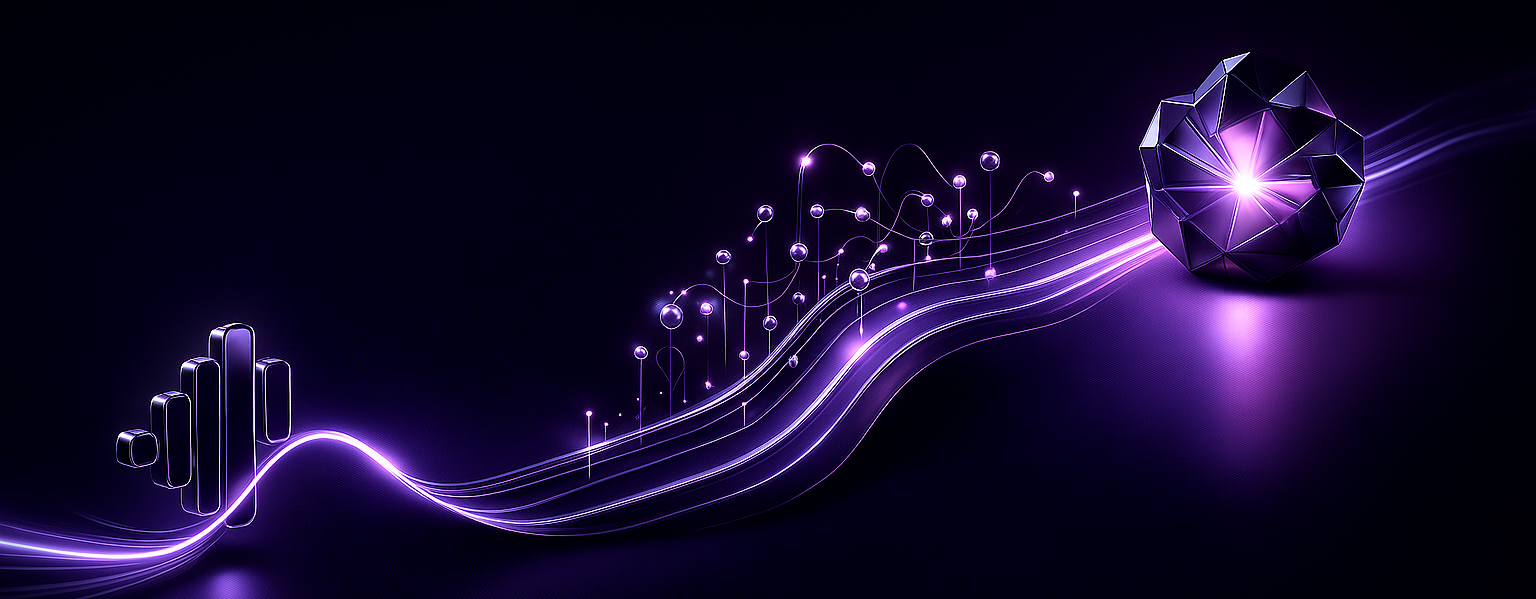
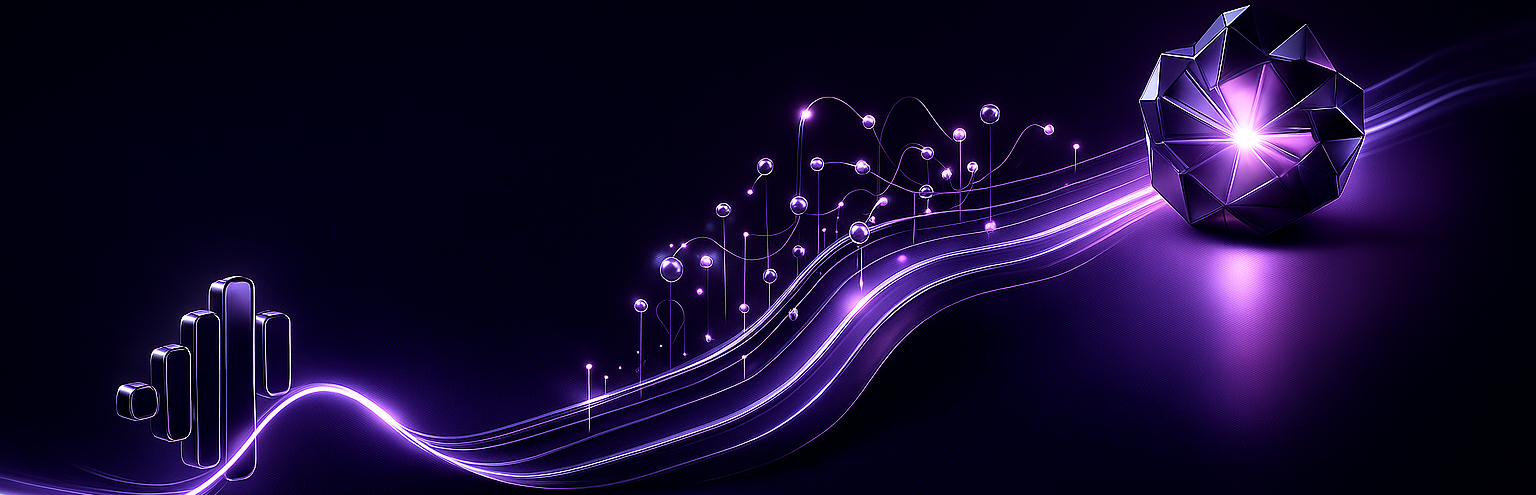
updated ReadMe

Changed region(s): [[0.0, 0.0, 1.0, 1.0], [0.7188, 0.5455, 0.8438, 0.9091]]

diff --git a/README.md b/README.md
@@ -56,15 +56,13 @@ Lyra is an enterprise-ready AI assistant platform that leverages a sophisticated
 
 The system seamlessly integrates voice-to-voice interaction with Google Calendar and Google Tasks, enabling users to manage their schedules and to-do lists through natural conversation.
 
+<div align="center">
+<img src="archiv/pictures/zwischen_banner_2.png" alt="" width="700">
+</div>
+
 ---
 
 ## Features
-
-<div align="center">
-<img src="archiv/pictures/zwischen_banner.png" alt="" width="700">
-</div>
-
-<br>
 
 ### Core Capabilities
 
@@ -158,7 +156,7 @@ The iOS app connects to the Python backend via WebSocket, enabling real-time voi
 ---
 
 <div align="center">
-<img src="archiv/pictures/zwischen_banner_2.png" alt="" width="700">
+<img src="archiv/pictures/zwischen_banner.png" alt="" width="700">
 </div>
 
 ---
@@ -333,21 +331,7 @@ Feedback and contributions are always welcome—this is just the beginning.
 
 ---
 
-## Use Cases
-
-<div align="center">
-<img src="archiv/pictures/UseCase_2.png" alt="Use Case" width="500">
-</div>
-
----
-
 ## Roadmap
-
-<div align="center">
-<img src="archiv/pictures/future_roadmap.png" alt="Future Roadmap" width="700">
-</div>
-
-<br>
 
 - [ ] Multi-language support (English, French, Spanish)
 - [ ] Integration with Microsoft 365 (Outlook, To Do)
